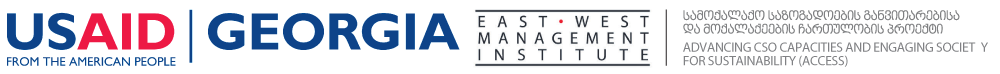
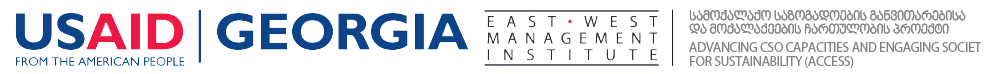
footer update with usaid

diff --git a/app/assets/stylesheets/components/app-footer.scss b/app/assets/stylesheets/components/app-footer.scss
@@ -1,26 +1,28 @@
 
 .app-footer {
-    bottom: 0;
+    align-self: flex-end;
     width: 100%;
-    padding: 1px 10px;
     background-color: #f8f8f8;
     color: #4f4f4f;
-    z-index: 0;
-    overflow: hidden;
+    z-index: 4;
 }
 
 
-.pledge-footer-wrap {
+.app-footer .pledge-footer-wrap {
     display: flex;
     justify-content: center;
     align-items: center;
     width: 100%;
     background-color: white;
-    padding: 30px 0;
+    padding: 50px 0;
     /*background-color:  #313d48;*/
 }
 
-.pledge-footer{
+.about .app-footer .pledge-footer-wrap {
+    padding: 20px 0;
+}
+
+.app-footer .pledge-footer{
     border: solid 4px;
     border-image:  linear-gradient(45deg, #296faf, #1bc5cc);
     border-image-slice: 1;
@@ -51,43 +53,83 @@
     }
 }
 
-@keyframes fill-background {
-  0% {
-    opacity: 0.5;
-  }
-  100% {
-    opacity: 1;
-  }
-}
-
 
   
-.default {
+.app-footer .default {
+    padding: 10px 0;
     display: flex;
     justify-content: space-between;
     align-items: center;
+    flex-wrap: wrap;
 }
 
-.app-footer-left {
-    display: flex;
-    align-items: center;
 
-    > * {
-        margin: 0;
+.app-footer .app-footer-left {
+    width: 110px;
+    padding-left: 5px;
+    p {
+        margin-bottom: 0;
     }
-}
 
-.app-footer-right {
-}
-
-.app-footer-left.share {
-    display: none;
-    img {
+    &.share {
         display: none;
-        width: 40px;
-        height: 40px;
+        img {
+            display: none;
+            width: 40px;
+            height: 40px;
+        }
     }
 }
+
+.app-footer .app-footer-right {
+    padding-right: 5px;
+}
+
+
+
+.app-footer .usaid {
+    position: relative;
+    display: flex;
+    flex-direction: column;
+
+    .disclaimer {
+        display: none;
+        flex-direction: column;
+        align-items: center;
+        position: absolute;
+        top: 0;
+        width: 100%;
+        transform: translateY(-105%);
+        color: white;
+    }
+
+    .disclaimer .text {
+        width: 100%;
+        padding: 20px;
+        background-color: #1a4b77;
+    }
+
+    .disclaimer .triangle {
+      border-left: 20px solid transparent;
+      border-right: 20px solid transparent;
+      border-top: 20px solid #1a4b77;
+    }
+
+    .usaid-logos {
+        width: auto;
+    }
+    
+    .usaid-logos img{
+        height: 45px;
+    }
+
+    &:hover .disclaimer{
+        display: flex;
+    }
+}
+
+
+
 
 
 @media screen and (max-width: 1500px) {
@@ -98,8 +140,66 @@
     }
 }
 
+@media screen and (max-width: 1200px) {
+    .app-footer .usaid{
+        width: 65%;
+        .usaid-logos img{
+            width: 100%;
+            height: auto;
+        }
+    }
+
+    .app-footer .app-footer-right img {
+        height: 20px;
+        width: auto;
+    }
+
+}
+
+
+
 @media screen and (max-width: 900px) {
     .pledge-footer{
         width: 80%;
     }
 }
+
+
+@media screen and (max-width: 700px) {
+    .app-footer .usaid{
+        width: 100%;
+        margin-bottom: 10px;
+        order: -1;
+
+        .disclaimer {
+            order: 1;
+            display: flex;
+            position: relative;
+            transform: translateY(0);
+            margin: 20px 0 10px 0;
+        }
+
+        .disclaimer .text {
+            width: 100%;
+            padding: 20px;
+            background-color: #1a4b77;
+        }
+
+        .disclaimer .triangle {
+            display: none;
+        }
+
+    }
+
+}
+
+
+@keyframes fill-background {
+  0% {
+    opacity: 0.5;
+  }
+  100% {
+    opacity: 1;
+  }
+}
+

diff --git a/app/assets/stylesheets/components/about.css b/app/assets/stylesheets/components/about.css
@@ -20,7 +20,7 @@
 	width: 100%;
 }
 
-.about .about-text {
+.about-wrapper .about-text {
 	padding: 20px 5px;
 	border-style: solid;
 	border-width: 1px 0;
@@ -29,7 +29,7 @@
 	font-size: 1.7em;
 }
 
-.about .partners-wrapper {
+.about-wrapper .partners-wrapper {
 	width: 100%;
 	margin: 4% 0;
 
@@ -41,7 +41,7 @@
 	}
 }
 
-.about .partner-logos {
+.about-wrapper .partner-logos {
 	display: flex;
 	flex-wrap: wrap;
 	align-items: center;
@@ -62,7 +62,7 @@
 
 }
 
-.about .usaid {
+.about-wrapper .usaid {
 	padding: 20px 0 30px 5px;
 	border-style: solid;
 	border-width: 1px 0;
@@ -88,13 +88,13 @@
 }
 
 @media screen and (max-width: 1000px) {
-	.about .partner-logos img {
+	.about-wrapper .partner-logos img {
 		height: 70px;
 	}
 }
 
 @media screen and (max-width: 500px) {
-	.about .partner-logos img {
+	.about-wrapper .partner-logos img {
 		height: 50px;
 	}
 }

diff --git a/app/assets/stylesheets/application.scss b/app/assets/stylesheets/application.scss
@@ -45,14 +45,16 @@ URL: https://gist.github.com/bobbygrace/9e961e8982f42eb91b80
 @import url('https://fonts.googleapis.com/css?family=Open+Sans');
 
 
-
-
-
 body {
-    height: auto !important;
+    height: auto;
+    min-height: 100vh;
+    display: flex;
+    align-items: flex-start;
+    flex-wrap: wrap;
 }
 
 main {
+    width: 100%;
     margin-top: 130px;
     margin-bottom: 40px;
     position: relative;

diff --git a/app/assets/stylesheets/components/navigation_bar.scss b/app/assets/stylesheets/components/navigation_bar.scss
@@ -277,7 +277,7 @@ $navigation-color: #38c3d4;
 	.navbar-wrapper .navbar-logo {
 
 		.logo-with-lungs {
-			height: 30px;
+			height: 50px;
 		}
 
 		.logo-with-letters {
